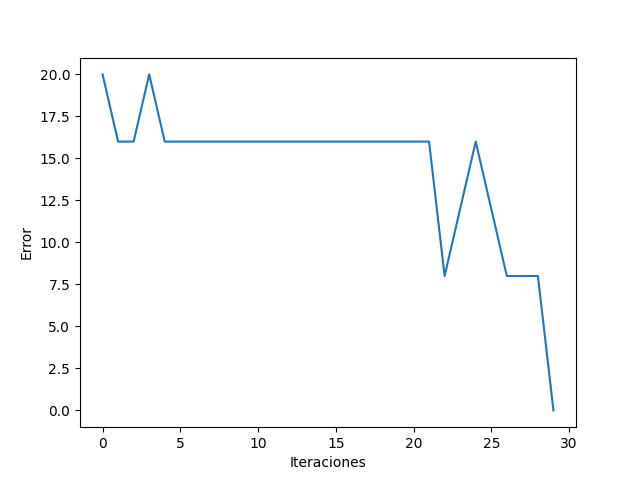
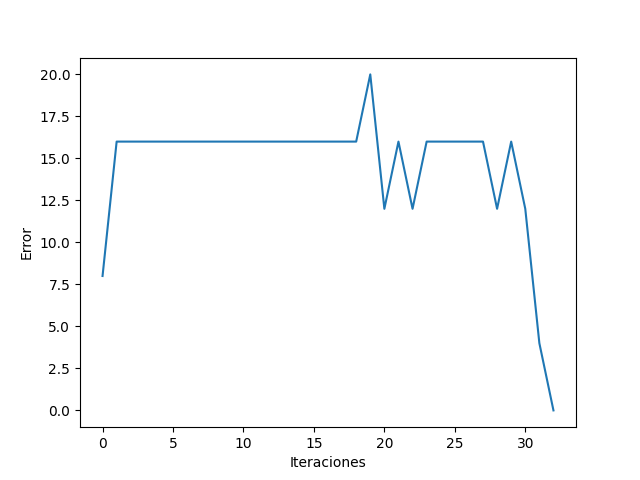
Taking generalize element randon on ej3.b

diff --git a/tp3/ej3/probabilityEj3.b.py b/tp3/ej3/probabilityEj3.b.py
@@ -1,0 +1,75 @@
+import numpy as np
+import os
+import random
+import matplotlib.pyplot as plt
+from tp3.configurations.jsonReader import JsonReader
+from tp3.multilayer.multilayerperceptron import MultiLayerPerceptron
+
+
+def leer_archivo(nombre_archivo):
+    with open(nombre_archivo, 'r') as archivo:
+        contenido = archivo.readlines()
+        matrices = []
+        for i in range(0, len(contenido), 7):
+            matriz = np.zeros((7, 5), dtype=int)
+            for j in range(7):
+                fila = contenido[i + j].strip().split()
+                matriz[j] = [int(d) for d in fila]
+            matrices.append(matriz)
+    return matrices
+
+
+def num_to_string(arr):
+    out = ''
+    for i in range(arr.shape[0]):
+        for j in range(arr.shape[1]):
+            out += str(arr[i, j]) + ' '
+        out += '\n'
+    return out
+
+
+def get_points():
+    nums = leer_archivo('TP3-ej3-digitos.txt')
+    points = [np.ravel(m) for m in nums]
+    return points, nums
+
+
+if __name__ == '__main__':
+    json_path = os.path.join(os.path.dirname(__file__), 'configurations', 'conf_B.json')
+
+    config = JsonReader(json_path)
+    points, nums = get_points()
+    success = 0
+    total = 1000
+
+    for j in range(total):
+        print(j)
+        expected = [x for x in config.expected]
+        aux_points = [x for x in points]
+
+        testing_index = random.randint(0, len(aux_points) - 1)
+        testing_set = [aux_points[testing_index]]
+        aux_points = np.delete(aux_points, testing_index, axis=0)
+        testing_expected = [1 if testing_index % 2 == 0 else -1]
+        expected.pop(testing_index)
+
+        perceptron_by_layer = [len(aux_points[0]) + 1, 36, 36, 1]
+        perceptron = MultiLayerPerceptron(
+            perceptron_by_layer,
+            aux_points,
+            config.activation_method,
+            expected,
+            config.epsilon,
+            config.learning_rate
+        )
+        perceptron.train()
+        for i in range(len(testing_set)):
+            if perceptron.get_result(testing_set[i]) == config.expected[testing_index]:
+                success += 1
+
+    labels = ['Aciertos', 'No aciertos']
+    sizes = [success, total - success]
+    fig, ax = plt.subplots()
+    ax.pie(sizes, labels=labels, autopct='%1.1f%%', startangle=90)
+    ax.axis('equal')
+    plt.show()

diff --git a/tp3/ej3/ej3.b.py b/tp3/ej3/ej3.b.py
@@ -3,6 +3,7 @@ import numpy as np
 from tp3.configurations.jsonReader import JsonReader
 from tp3.ej3.utils.graph_utils import plot_graph
 from tp3.multilayer.multilayerperceptron import MultiLayerPerceptron
+import os
 
 
 def leer_archivo(nombre_archivo):
@@ -34,12 +35,16 @@ def get_points():
 
 
 if __name__ == '__main__':
-    config = JsonReader("/home/bsquillari/PycharmProjects/sia/tp3/ej3/configurations/conf_B.json")
+    json_path = os.path.join(os.path.dirname(__file__), 'configurations', 'conf_B.json')
+
+    config = JsonReader(json_path)
 
     points, nums = get_points()
     # Get testing sets
     testing_set = [points.pop(), points.pop()]
     testing_expected = [[-1], [1]]
+    config.expected.pop(9)
+    config.expected.pop(8)
 
     perceptron_by_layer = [len(points[0]) + 1, 36, 36, 1]
 
@@ -56,8 +61,9 @@ if __name__ == '__main__':
 
     # Error vs Iterations
     print(perceptron.error_by_iteration)
+    png_path = os.path.join('graphs', 'B_error.png')
     plot_graph(range(len(perceptron.error_by_iteration)), perceptron.error_by_iteration, "Iteraciones", "Error",
-               "/home/bsquillari/PycharmProjects/sia/tp3/ej3/graphs/B_error.png")
+               png_path)
 
     # Case 1: Already learned numbers
     print('Casos ya aprendidos:')

diff --git a/tp3/ej3/imageGenerator.py b/tp3/ej3/imageGenerator.py
@@ -31,6 +31,6 @@ def add_noise_to_image(img, noise_level, filename):
 if __name__ == '__main__':
     for noise in [70, 160, 255]:
         for i in range(10):
-            filename = f'/home/bsquillari/PycharmProjects/sia/tp3/ej3/images/noise_{noise}/{i}_digit'
-            save_number_image(i, filename, noise)
+            filename = f'images/noise_{noise}/{i}_digit'
+            save_number_image(i, os.path.join(filename), noise)
             print(f'Generating: {os.path.abspath(filename)}')
